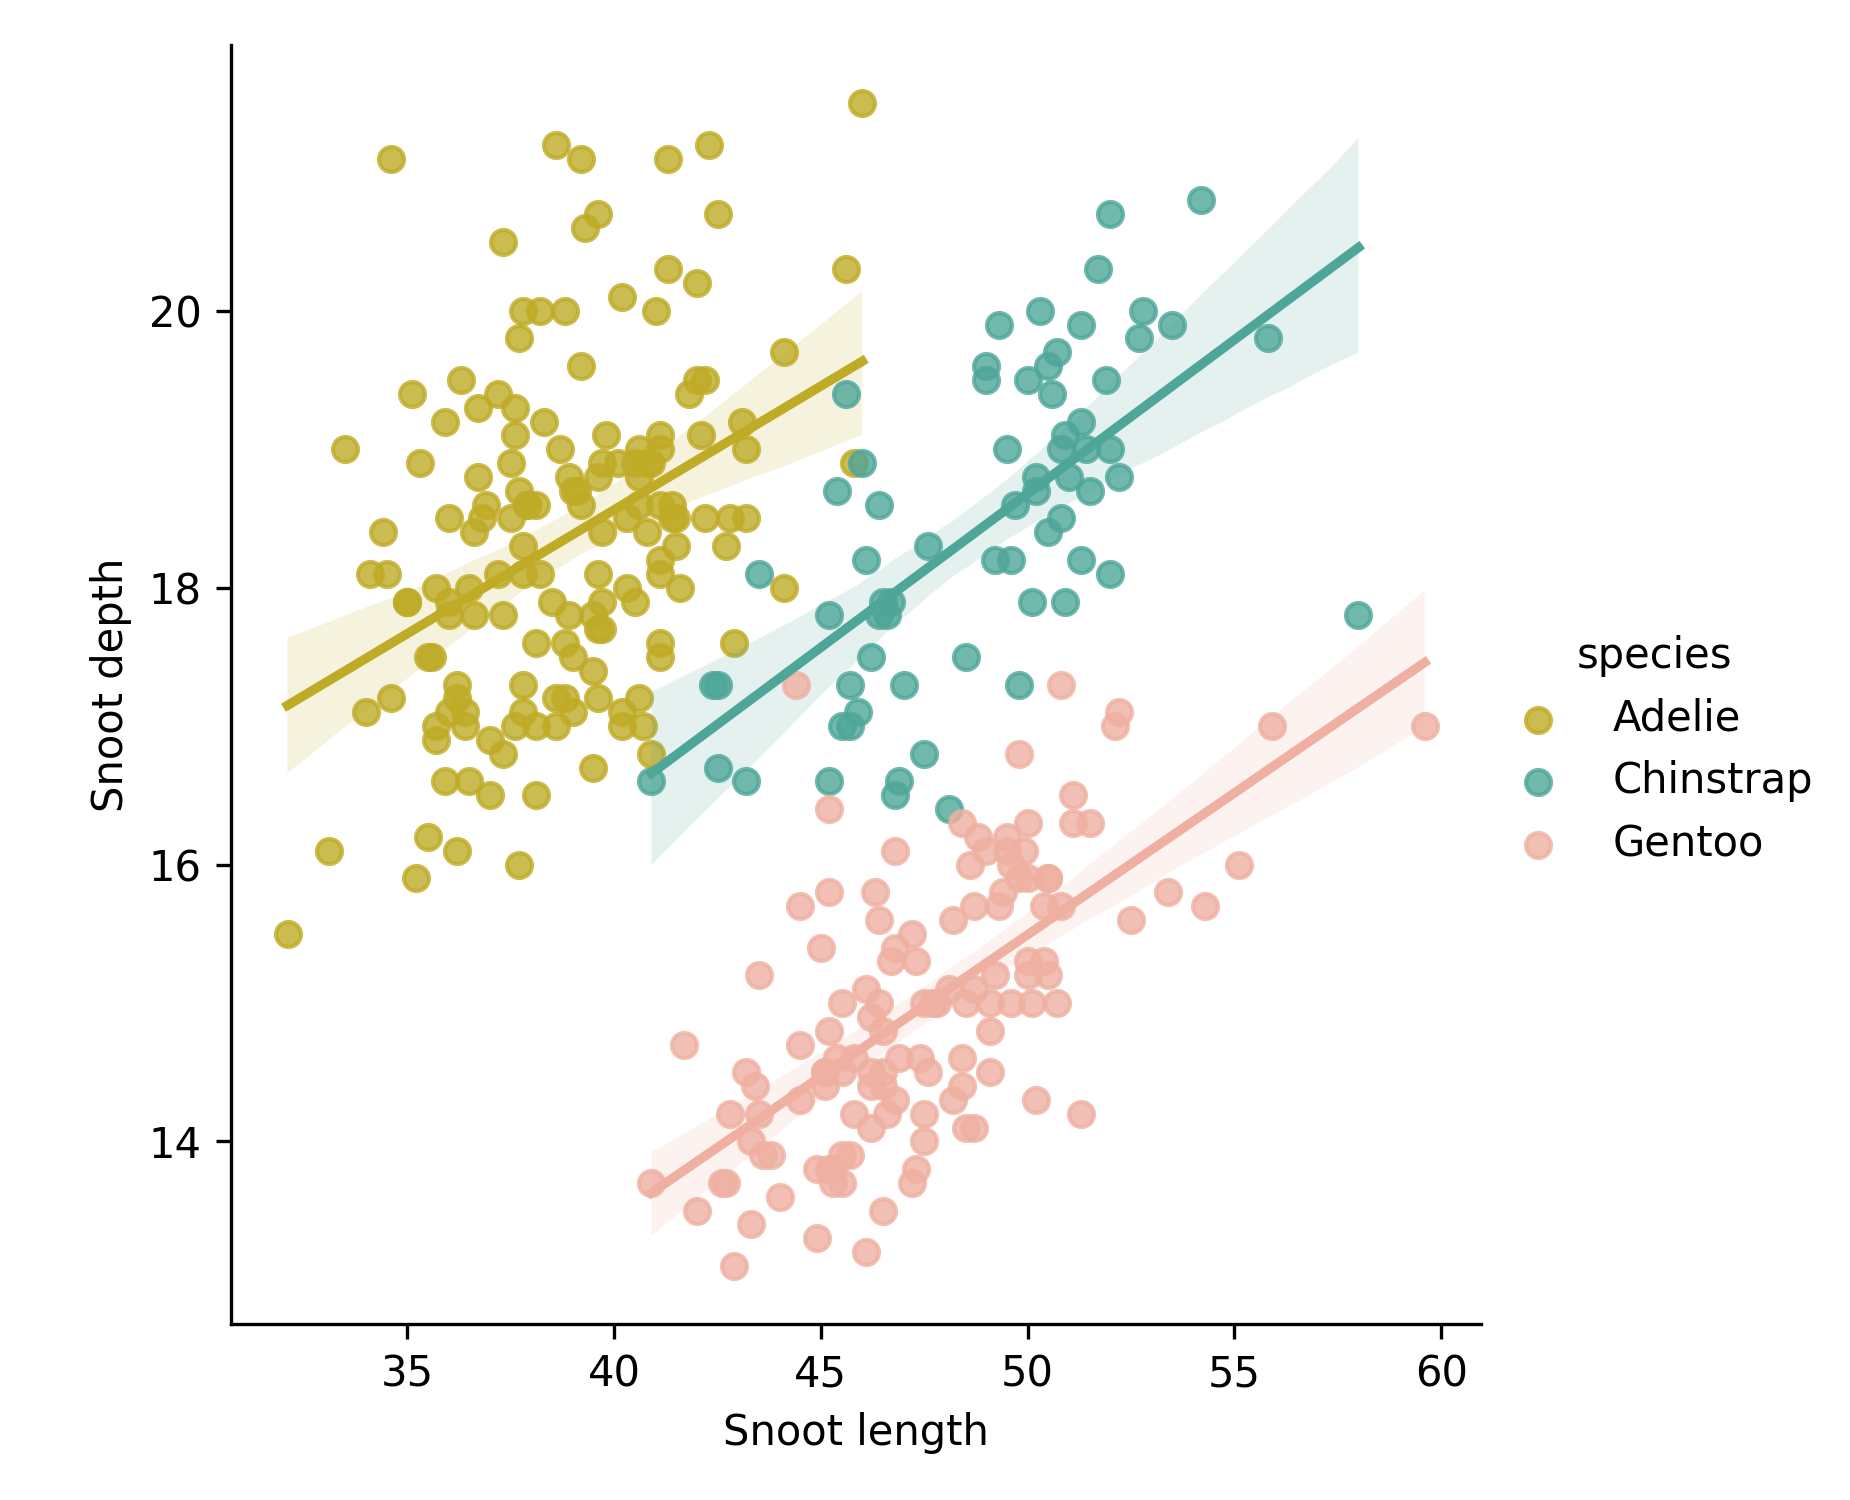
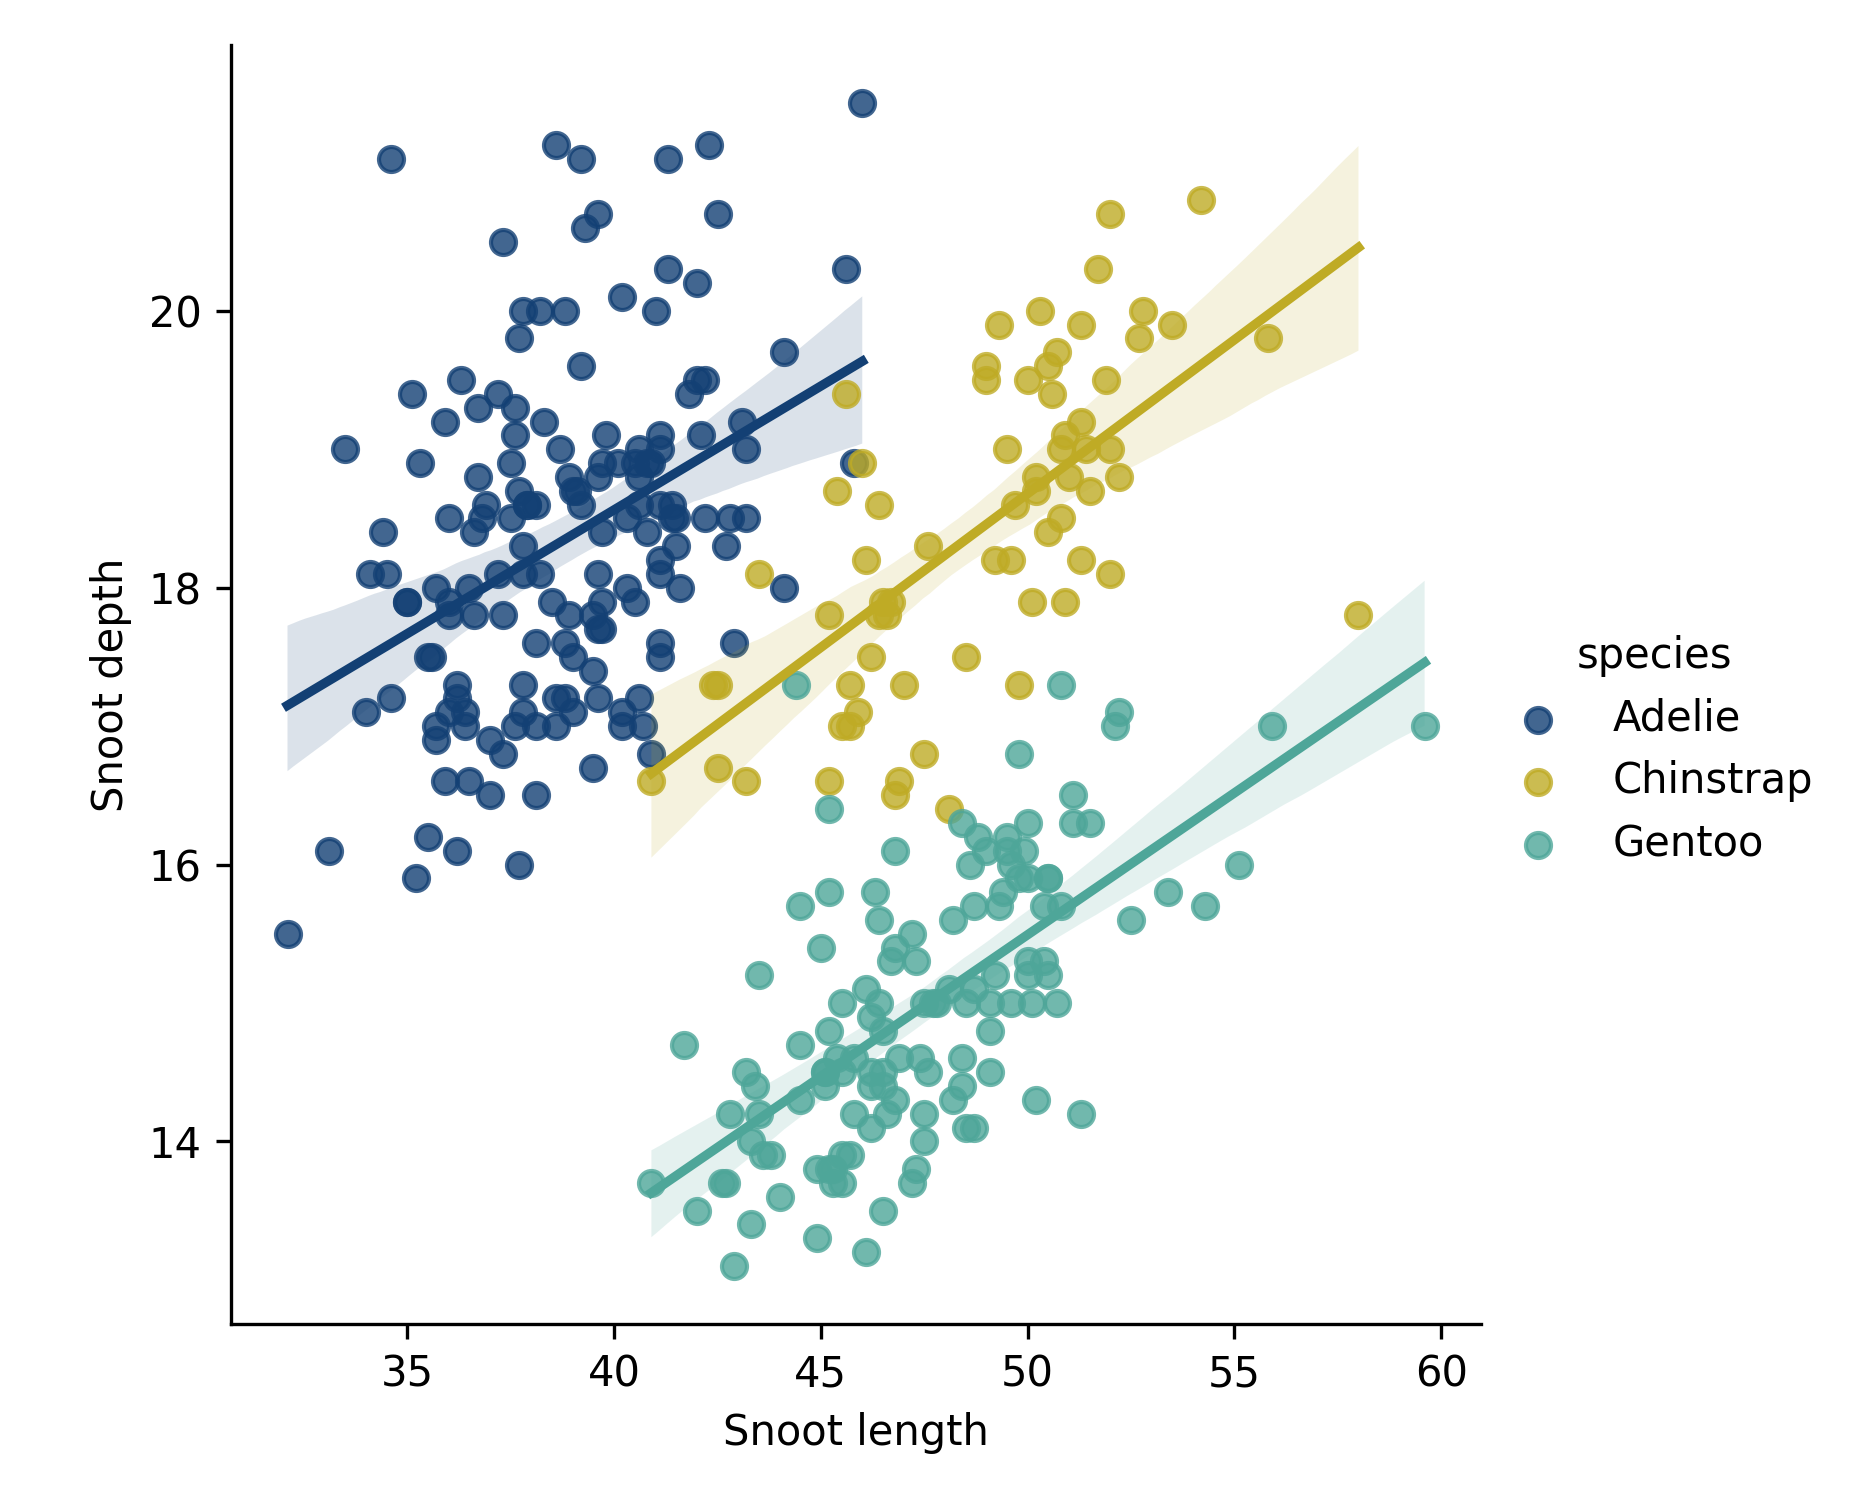
better readme

diff --git a/images/images.py b/images/images.py
@@ -1,39 +1,53 @@
 import matplotlib.pyplot as plt
 import numpy as np
-import pypalettes
 from pypalettes import add_cmap
 import seaborn as sns
-import pypalettes
+from pypalettes import load_cmap
 
 plt.rcParams["figure.dpi"] = 300
 plt.rcParams["savefig.dpi"] = 300
 
 # plot 1
+import matplotlib.pyplot as plt
+from pypalettes import load_cmap
+import numpy as np
+
+cmap = load_cmap("Sunset2", cmap_type="continuous")
+
 data = np.random.randn(20, 20)
-plt.imshow(data, cmap="Sunset2_c")
+
+plt.imshow(data, cmap=cmap)
 plt.colorbar()
 plt.savefig("images/heatmap.png")
 plt.close()
 
 # plot 2
+cmap = load_cmap("Fun")
+palette = cmap.colors
 df = sns.load_dataset("penguins")
+
 g = sns.lmplot(
-    data=df, x="bill_length_mm", y="bill_depth_mm", hue="species", palette="Fun"
+    data=df, x="bill_length_mm", y="bill_depth_mm", hue="species", palette=palette
 )
 g.set_axis_labels("Snoot length", "Snoot depth")
 plt.savefig("images/scatter.png")
 plt.close()
 
 # plot 3
-add_cmap(
+import matplotlib.pyplot as plt
+from pypalettes import add_cmap
+import numpy as np
+
+cmap = add_cmap(
     colors=["#D57A6DFF", "#E8B762FF", "#9CCDDFFF", "#525052FF"],
-    name="myOwnCmap",
+    name="myCmap",
     cmap_type="continuous",
 )
 
 x = np.linspace(0, 20, 1000)
 y = np.sin(x)
-plt.scatter(x, y, c=y, cmap="myOwnCmap")
+
+plt.scatter(x, y, c=y, cmap=cmap)
 plt.colorbar()
 plt.savefig("images/line.png")
 plt.close()

diff --git a/README.md b/README.md
@@ -37,41 +37,43 @@ pip install -U pypalettes
 
 Once `pypalettes` is imported, all the palettes are now accessible as any other colormap in matplotlib or seaborn via the `palette` or `cmap` arguments.
 
+#### Continuous palette
+
+```python
+import matplotlib.pyplot as plt
+from pypalettes import load_cmap
+import numpy as np
+
+cmap = load_cmap("Sunset2", cmap_type="continuous")
+
+data = np.random.randn(20, 20)
+
+plt.imshow(data, cmap=cmap)
+plt.colorbar()
+plt.show()
+```
+
+![heatmap example](https://raw.githubusercontent.com/JosephBARBIERDARNAL/pypalettes/main/images/heatmap.png)
+
 #### Categorical palette
 
 ```python
 import matplotlib.pyplot as plt
 import seaborn as sns
-import pypalettes
+from pypalettes import load_cmap
 
+cmap = load_cmap("Fun")
+palette = cmap.colors
 df = sns.load_dataset("penguins")
 
 g = sns.lmplot(
-    data=df, x="bill_length_mm", y="bill_depth_mm", hue="species", palette="Fun"
+    data=df, x="bill_length_mm", y="bill_depth_mm", hue="species", palette=palette
 )
 g.set_axis_labels("Snoot length", "Snoot depth")
 plt.show()
 ```
 
 ![scatterplot example](https://raw.githubusercontent.com/JosephBARBIERDARNAL/pypalettes/main/images/scatter.png)
-
-#### Continuous palette
-
-_Note: the suffix `_gradient` is used to make the colormap a gradient._
-
-```python
-import matplotlib.pyplot as plt
-import pypalettes
-import numpy as np
-
-data = np.random.randn(20, 20)
-
-plt.imshow(data, cmap="Sunset2_gradient")
-plt.colorbar()
-plt.show()
-```
-
-![heatmap example](https://raw.githubusercontent.com/JosephBARBIERDARNAL/pypalettes/main/images/heatmap.png)
 
 #### Your own palette
 
@@ -80,16 +82,16 @@ import matplotlib.pyplot as plt
 from pypalettes import add_cmap
 import numpy as np
 
-add_cmap(
+cmap = add_cmap(
     colors=["#D57A6DFF", "#E8B762FF", "#9CCDDFFF", "#525052FF"],
-    name="myOwnCmap",
+    name="myCmap",
     cmap_type="continuous",
 )
 
 x = np.linspace(0, 20, 1000)
 y = np.sin(x)
 
-plt.scatter(x, y, c=y, cmap="myOwnCmap")
+plt.scatter(x, y, c=y, cmap=cmap)
 plt.colorbar()
 plt.show()
 ```
